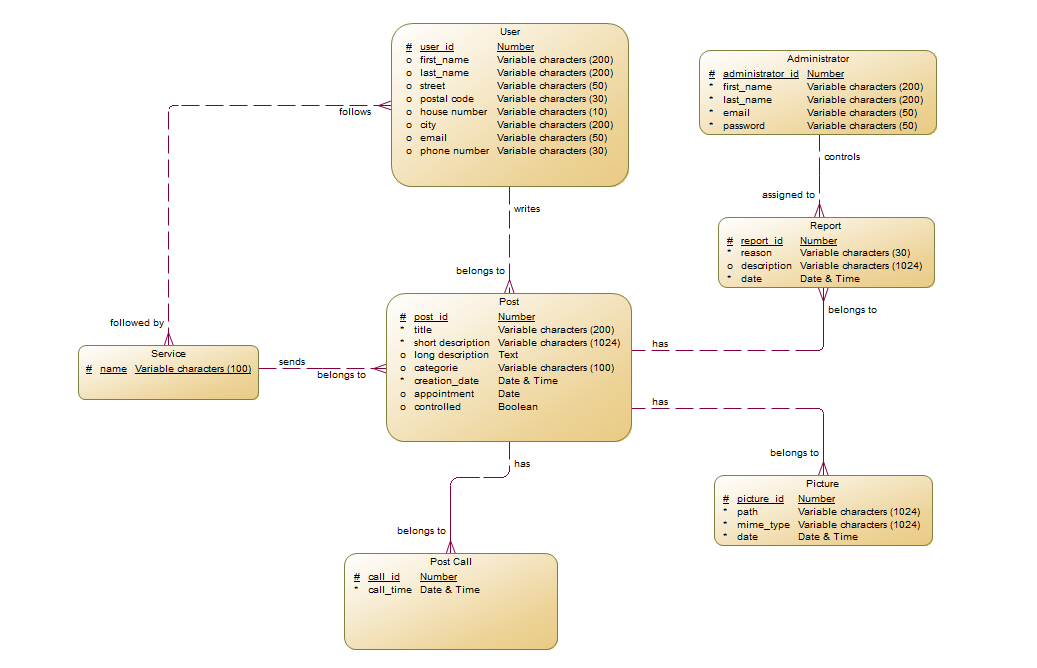
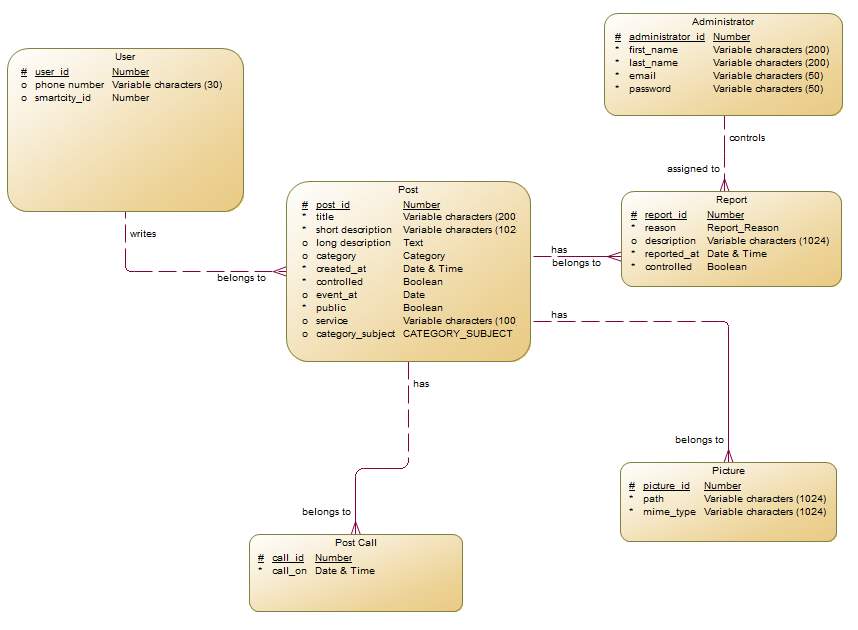
updated ER; added events to specification

diff --git a/forum/index.md b/forum/index.md
@@ -170,7 +170,7 @@ Aber auch Fragen können gestellt oder Veranstaltungen angekündigt werden.
 - In Event-gesteuerten Systemen ebenfalls die Definition der Ereignisse und deren Attribute
 - Aufteilen in Commands, Events, Queries
 * Abhängigkeiten: Liste mit Kommunikationsabhängigkeiten zu anderen Microservices
-
+ <!---
 **Beispiel:**
 
 ### URL
@@ -192,9 +192,28 @@ http://smart.city/microservices/customer
 | :------ | :----- | :------ |
 | createContract() | int id | int id |
 | changeContract() | int id | - |
+--->
+### eingehende Events
 
-### Events
+| **Name** | **Beschreibung** | **Payload** |
+| :------ | :----- | :----- |  
+| newServicePost | legt einen neuen Post mit den verschickten Daten an | {
+  "event_id" : "event_id",
+  "service" : "service",
+  "title" : "title",
+  "short_description" : "short_description",
+  "long_description" : "long_description", (optional)
+  "picture" : "picture", (noch nicht sicher, wie speichern)
+  "event_at" : "event_at" (optional, der Tag, bei dem das Event im Kalender angezeigt werden soll)
+}|
 
+
+### ausgehende Events
+
+| **Name** | **Beschreibung** |
+| :------ | :----- |  
+| About us | wird an die Landingpage gesendet, wenn die About Us-Seite des Forums verändert werden soll | 
+<!---
 **Customer event channel**
 
 | **Name** | **Payload** | 
@@ -208,8 +227,20 @@ http://smart.city/microservices/customer
 | :------ | :----- | 
 | Contract Received | int id |
 | Contract Deleted | int id |
-
+--->
+<!---
 **required Data**
+
+{
+  "event_id" : "event_id",
+  "service" : "service",
+  "title" : "title",
+  "short_description" : "short_description",
+  "long_description" : "long_description", (optional)
+  "picture" : "picture", (noch nicht sicher, wie speichern)
+  "event_at" : "event_at" (optional, der Tag, bei dem das Event im Kalender angezeigt werden soll)
+}
+
 
 - event_id
 - event_name
@@ -218,6 +249,7 @@ http://smart.city/microservices/customer
 - text_long
 - picture 
 - date (der Tag, bei dem das Event im Kalender angezeigt werden soll, ansonsten weglassen)
+--->
 
 
 ### Queries
